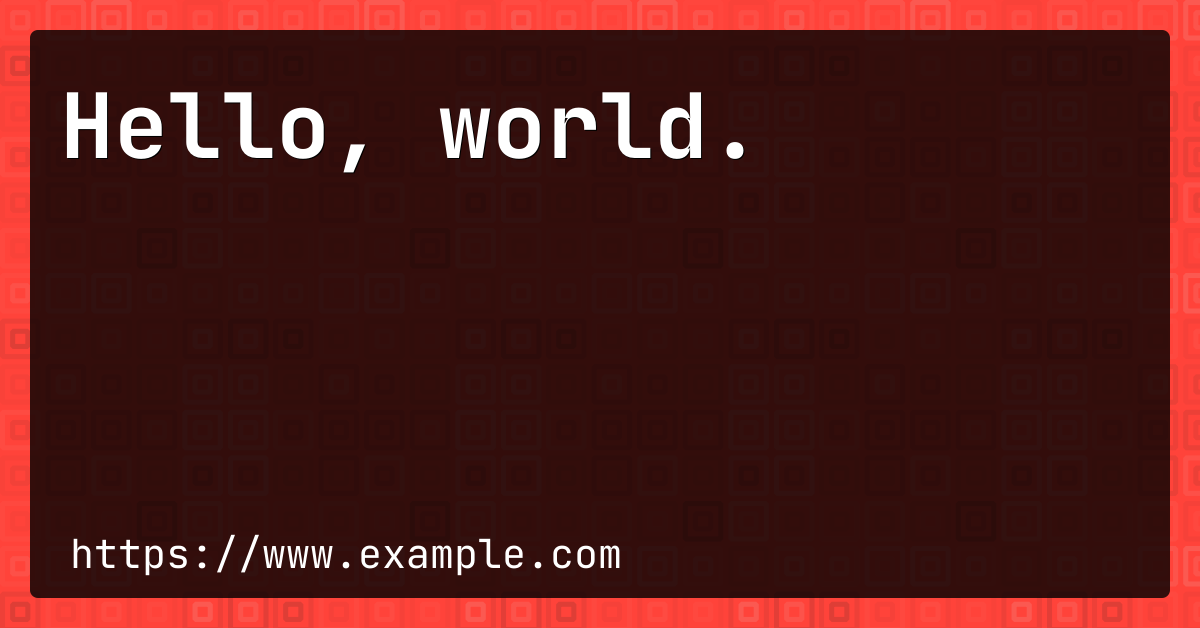
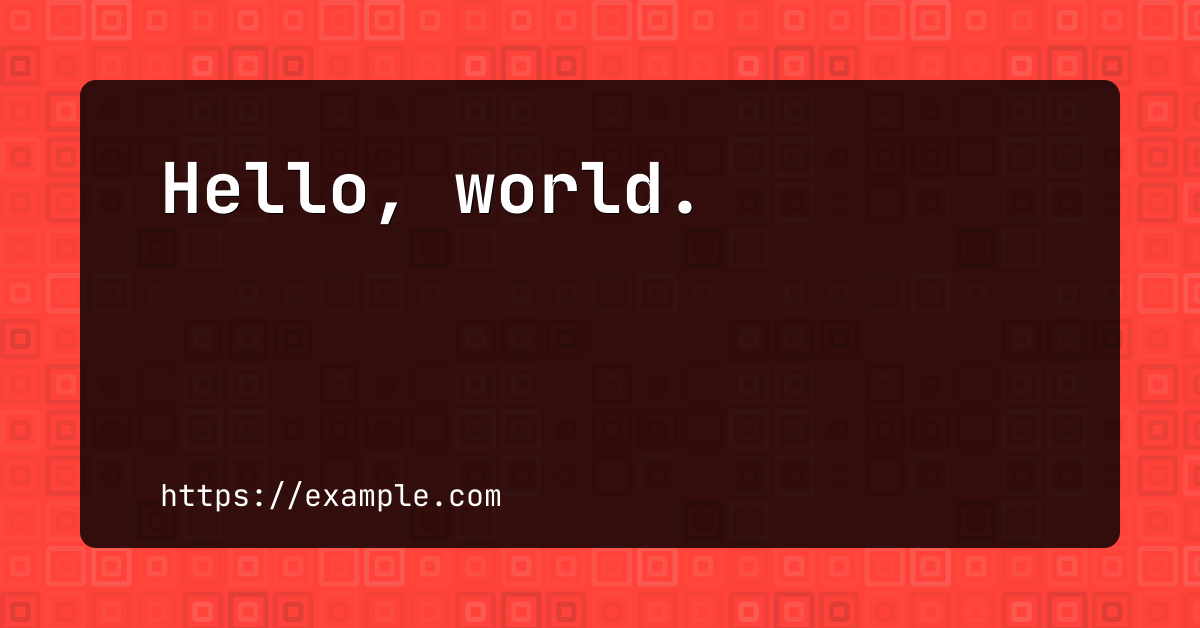
Adjust image layout

Changed region(s): [[0.0, 0.0303, 0.9867, 0.9682], [0.1233, 0.7564, 0.4317, 0.8169]]

diff --git a/main.go b/main.go
@@ -157,10 +157,12 @@ func generateBackgroundTile() (image.Image, error) {
 
 // Renders semi-transparend overlay rectangle.
 func renderOverlay(ctx *gg.Context) error {
-	borderRadius := 8.0
-	margin := 30.0
+	borderRadius := 16.0
+	margin := 80.0
+
 	x := margin
 	y := margin
+
 	width := float64(ctx.Width()) - (2.0 * margin)
 	height := float64(ctx.Height()) - (2.0 * margin)
 
@@ -173,8 +175,8 @@ func renderOverlay(ctx *gg.Context) error {
 
 // Renders the given text line (with shadow).
 func renderText(ctx *gg.Context) error {
-	marginLeft := 60.0
-	marginTop := 90.0
+	marginLeft := 160.0
+	marginTop := 160.0
 
 	x := marginLeft
 	y := marginTop
@@ -184,7 +186,7 @@ func renderText(ctx *gg.Context) error {
 	textColor := color.White
 	shadowColor := color.Black
 
-	fontSize := 90.0
+	fontSize := 70.0
 
 	fontPath := filepath.Join("fonts", "JetBrainsMono-Bold.ttf")
 	if err := ctx.LoadFontFace(fontPath, fontSize); err != nil {
@@ -202,18 +204,24 @@ func renderText(ctx *gg.Context) error {
 
 // Renders the given note.
 func renderNote(ctx *gg.Context) error {
-	fontSize := 40.0
+	fontSize := 30.0
 
 	fontPath := filepath.Join("fonts", "JetBrainsMono-Regular.ttf")
 	if err := ctx.LoadFontFace(fontPath, fontSize); err != nil {
 		return fmt.Errorf("Error loading font: %w", err)
 	}
 
-	marginBottom := 30.0
+	marginLeft := 160.0
+	marginBottom := 100.0
+
 	_, height := ctx.MeasureString(cfg.note)
-	x := 70.0
+
+	x := marginLeft
 	y := float64(ctx.Height()) - height - marginBottom
 
+	textColor := color.White
+
+	ctx.SetColor(textColor)
 	ctx.DrawString(cfg.note, x, y)
 
 	return nil
